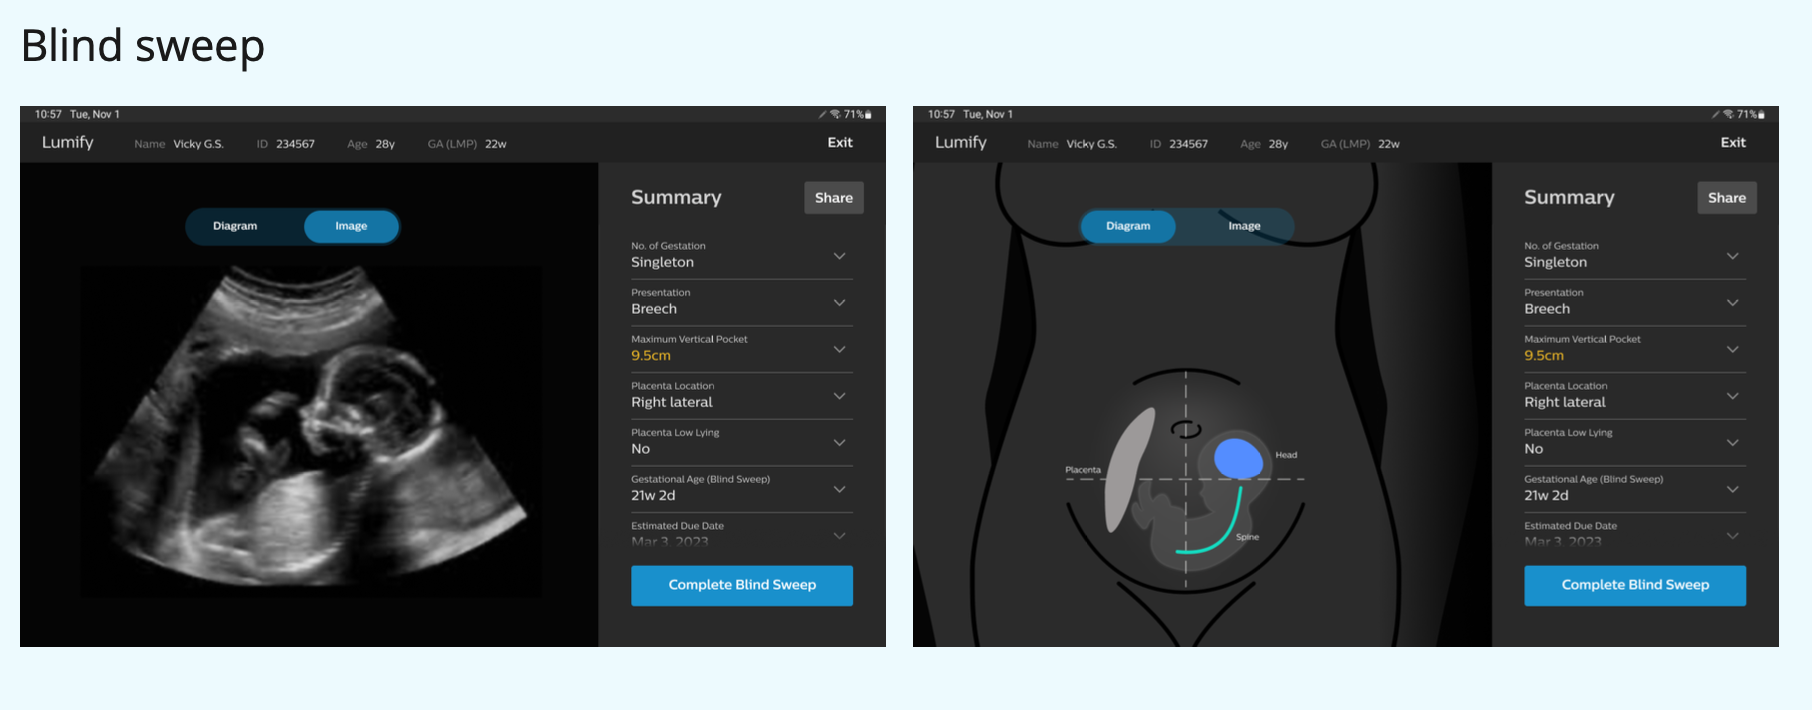
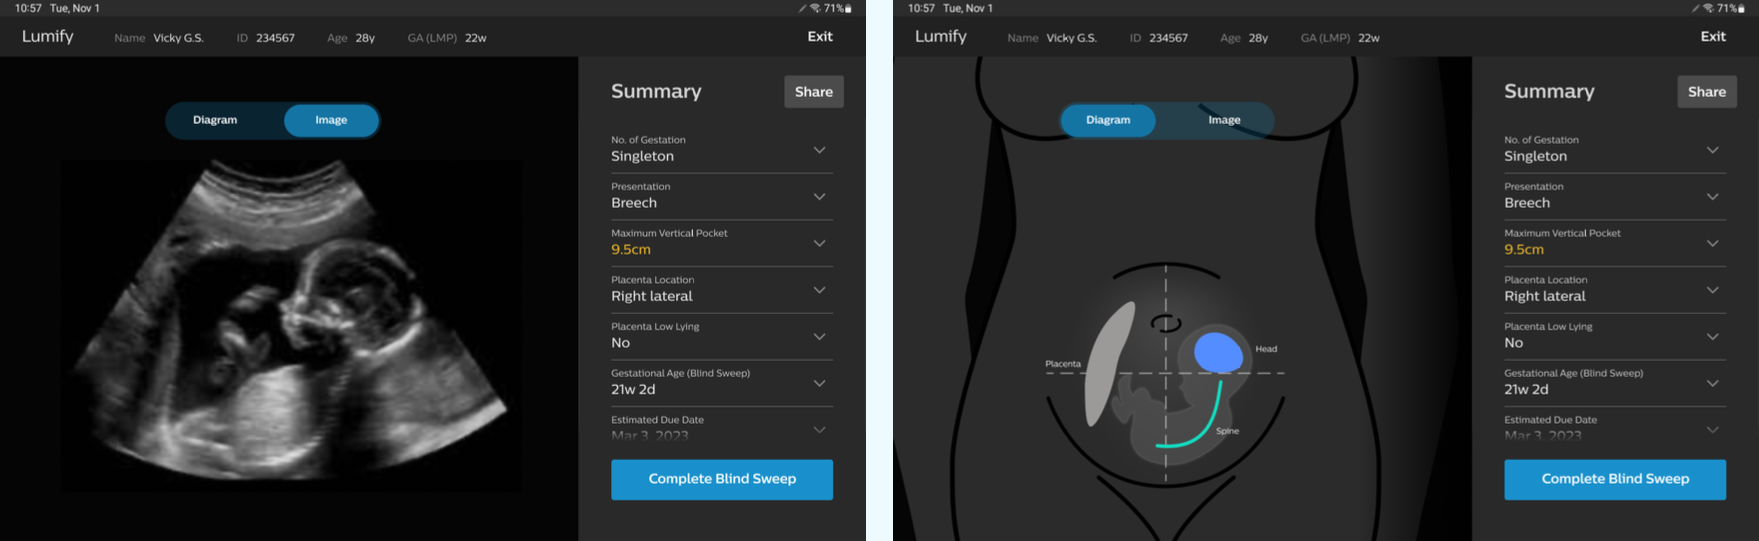
Update Philips case study content and clean up screenshot images
- Change timeline to July 2022 – July 2023
- Rework Context paragraph and Outcome intro copy
- Add green tree connectors under "Defining the scope"
- Update Validating/Defining section captions
- Trim baked-in white/blue padding from Digital Product screenshots
- Split blind-sweep-1 into separate 3X3/5X5 groups with a gap and
  individual captions, filling all internal gaps with the page's
  background color (#FDF6EB) instead of the original blue

diff --git a/app/projects/philips/page.tsx b/app/projects/philips/page.tsx
@@ -307,7 +307,7 @@ export default function Philips() {
                 className="font-avenir"
                 style={{ fontSize: "15px", fontWeight: 500, marginTop: "4px" }}
               >
-                August 2022 &ndash; July 2023
+                July 2022 &ndash; July 2023
               </p>
             </div>
             <div>
@@ -389,7 +389,7 @@ export default function Philips() {
                 marginBottom: "16px",
               }}
             >
-              This project was part of a collaboration between{" "}
+              This project was a collaboration between{" "}
               <a
                 href="https://www.usa.philips.com/healthcare"
                 target="_blank"
@@ -408,10 +408,11 @@ export default function Philips() {
                 The Gates Foundation
               </a>{" "}
               to develop an AI-enabled solution around Philips&rsquo; existing
-              handheld ultrasound technology. The goal was to enable frontline
-              healthcare workers to identify high-risk pregnancies earlier and
-              improve access to antenatal care in underserved regions in India
-              and Kenya.
+              handheld ultrasound technology. The goal was to improve access
+              to antenatal care in underserved regions in India and Kenya by
+              enabling frontline healthcare workers to identify high-risk
+              pregnancies early to ensure patients can have a planned
+              pregnancy and delivery.
             </p>
             <p
               className="font-avenir"
@@ -556,11 +557,23 @@ export default function Philips() {
                   style={{
                     fontSize: "17px",
                     fontWeight: 800,
-                    marginBottom: "24px",
+                    marginBottom: "0",
                   }}
                 >
                   {col.title}
                 </p>
+                <svg
+                  width="100%"
+                  height="32"
+                  viewBox="0 0 100 32"
+                  preserveAspectRatio="none"
+                  style={{ display: "block" }}
+                >
+                  <line x1="50" y1="0" x2="50" y2="16" stroke="#275F55" strokeWidth="1" vectorEffect="non-scaling-stroke" />
+                  <line x1="25" y1="16" x2="75" y2="16" stroke="#275F55" strokeWidth="1" vectorEffect="non-scaling-stroke" />
+                  <line x1="25" y1="16" x2="25" y2="32" stroke="#275F55" strokeWidth="1" vectorEffect="non-scaling-stroke" />
+                  <line x1="75" y1="16" x2="75" y2="32" stroke="#275F55" strokeWidth="1" vectorEffect="non-scaling-stroke" />
+                </svg>
                 <div style={{ display: "flex", gap: "16px" }}>
                   {col.items.map((item, i) => (
                     <p
@@ -682,7 +695,7 @@ export default function Philips() {
                 />
               </div>
             </div>
-            <Caption>Usability testing of technology using a phantom belly</Caption>
+            <Caption>Usability testing of the technology using a phantom belly</Caption>
           </div>
 
           <div style={{ marginBottom: "32px" }}>
@@ -695,7 +708,7 @@ export default function Philips() {
                 style={{ width: "100%", height: "auto" }}
               />
             </div>
-            <Caption>Usability testing for the screens in the flow</Caption>
+            <Caption>User testing each screen in the flow</Caption>
           </div>
 
           <InsightSolution items={validationInsights} />
@@ -720,7 +733,7 @@ export default function Philips() {
                 style={{ width: "100%", height: "auto" }}
               />
             </div>
-            <Caption>Service Blueprint activity</Caption>
+            <Caption>Service Blueprint activity to map out the service before and after screening</Caption>
           </div>
 
           <div style={{ marginBottom: "32px" }}>
@@ -762,10 +775,9 @@ export default function Philips() {
               marginBottom: "64px",
             }}
           >
-            A key outcome of my time at Philips Healthcare was partnering
-            cross-functionally to define the product&rsquo;s value
-            proposition and design the end-to-end patient journey for our
-            healthcare facility partners:
+            The outcome had 3 main parts to it, namely the digital product
+            that would live on a compact tablet, the physical equipment to
+            accompany, and lastly the end-to-end service offerings.
           </p>
 
           {/* Digital Product */}
@@ -796,19 +808,31 @@ export default function Philips() {
               conduct horizontal and vertical sweeps across the patient&rsquo;s
               abdomen to automatically collect the necessary parameters.
             </p>
+            <div style={{ marginBottom: "40px" }}>
+              <div style={{ position: "relative", borderRadius: "8px", overflow: "hidden" }}>
+                <Image
+                  src="/projects/philips/blind-sweep-3x3.png"
+                  alt="3x3 sweep pattern for blind sweep screening"
+                  width={1528}
+                  height={619}
+                  style={{ width: "100%", height: "auto" }}
+                />
+              </div>
+              <Caption>3X3 sweep for the first trimester</Caption>
+            </div>
             <div style={{ marginBottom: "24px" }}>
               <div style={{ position: "relative", borderRadius: "8px", overflow: "hidden" }}>
                 <Image
-                  src="/projects/philips/blind-sweep-1.png"
-                  alt="3x3 and 5x5 sweep patterns for blind sweep screening"
-                  width={1732}
-                  height={1616}
+                  src="/projects/philips/blind-sweep-5x5.png"
+                  alt="5x5 sweep pattern for blind sweep screening"
+                  width={1528}
+                  height={620}
                   style={{ width: "100%", height: "auto" }}
                 />
               </div>
               <Caption>
-                3X3 sweep for the first part of a woman&rsquo;s pregnancy,
-                5X5 sweep for the second part to cover more area
+                5X5 sweep for the second and third trimesters to cover more
+                surface area
               </Caption>
             </div>
             <div>
@@ -816,8 +840,8 @@ export default function Philips() {
                 <Image
                   src="/projects/philips/blind-sweep-report.png"
                   alt="Reporting summary for blind sweep"
-                  width={1812}
-                  height={710}
+                  width={1759}
+                  height={541}
                   style={{ width: "100%", height: "auto" }}
                 />
               </div>
@@ -850,8 +874,8 @@ export default function Philips() {
                 <Image
                   src="/projects/philips/guided-sweep-1.png"
                   alt="Manual screening supported with AI-enabled reporting"
-                  width={1658}
-                  height={1326}
+                  width={880}
+                  height={1134}
                   style={{ width: "100%", height: "auto" }}
                 />
               </div>
@@ -862,8 +886,8 @@ export default function Philips() {
                 <Image
                   src="/projects/philips/guided-sweep-report.png"
                   alt="Reporting summary for guided sweep for detailed analysis"
-                  width={1084}
-                  height={1066}
+                  width={967}
+                  height={922}
                   style={{ width: "100%", height: "auto" }}
                 />
               </div>
